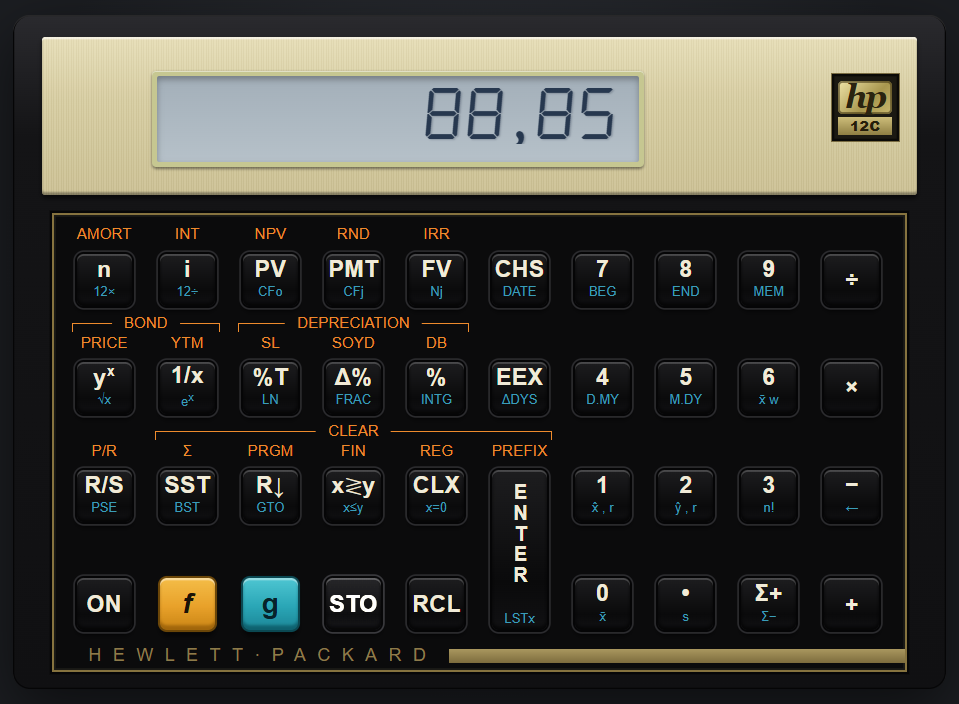
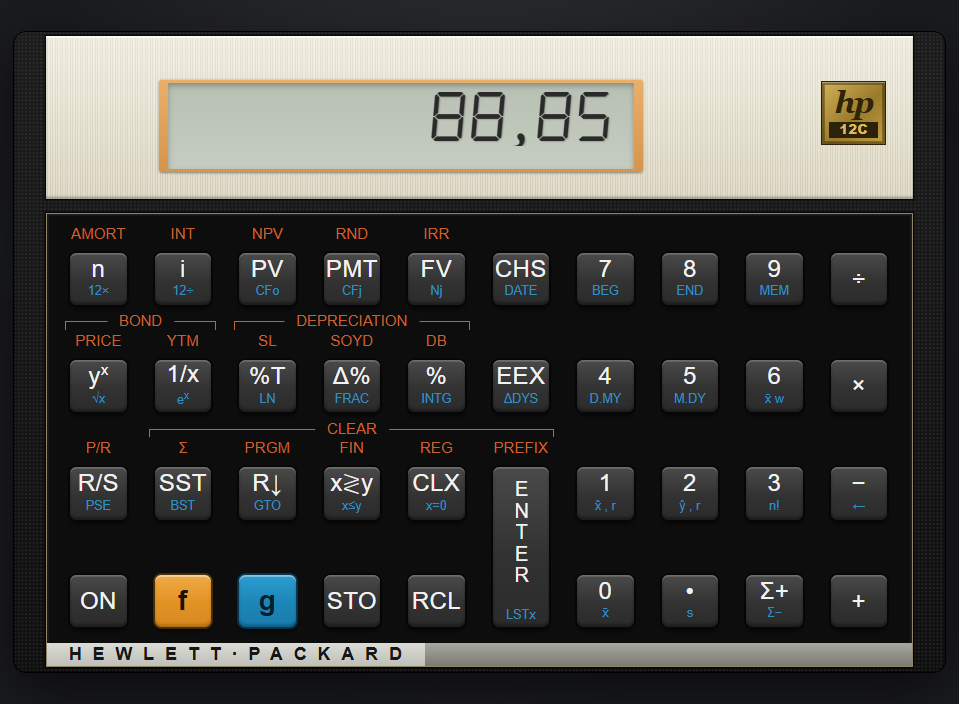
Atualização

diff --git a/src/style.css b/src/style.css
@@ -2,63 +2,63 @@
 @font-face{font-family:"DSEG7";src:url("fonts/DSEG7Classic-Italic.woff2") format("woff2");font-display:block}
 *,*::before,*::after{box-sizing:border-box}
 html,body{height:100%;margin:0}
-body{background:radial-gradient(ellipse at 50% 35%,#2f3238 0%,#1b1d21 70%);color:#d9d4c0;font-family:"Segoe UI",system-ui,sans-serif;overflow:hidden;user-select:none;-webkit-user-select:none}
+body{background:radial-gradient(ellipse at 50% 35%,#34363b 0%,#1a1b1e 72%);color:#d9d4c0;font-family:"Segoe UI",system-ui,sans-serif;overflow:hidden;user-select:none;-webkit-user-select:none}
 .hidden{display:none !important}
 #stage{height:100%;display:flex;flex-direction:column;align-items:center;justify-content:center;padding:10px;gap:8px}
 
-.calc12{flex:none;position:relative;width:640px;container-type:inline-size;background:linear-gradient(#2a2a2e,#141416 18%,#101012);border-radius:1.8cqw;box-shadow:0 16px 48px rgba(0,0,0,.55),inset 0 1px 0 rgba(255,255,255,.14),inset 0 0 0 1px #050506;font-family:"Helvetica Neue",Helvetica,Arial,sans-serif;outline:none;overflow:hidden;padding-top:2.2cqw}
-.c12-case{padding:0 3.1cqw 1.8cqw}
+.calc12{flex:none;position:relative;width:640px;container-type:inline-size;background:radial-gradient(rgba(255,255,255,.08) .6px,transparent .9px) 0 0/3px 3px,linear-gradient(#1c1c1c,#0f0f0f);border-radius:1.3cqw;box-shadow:0 14px 44px rgba(0,0,0,.6),inset 0 0 0 .15cqw #000,inset 0 .2cqw 0 rgba(255,255,255,.1);font-family:"Helvetica Neue",Helvetica,Arial,sans-serif;outline:none;overflow:hidden;padding-top:.5cqw}
+.c12-case{padding:0 3.6cqw .6cqw}
 
-/* placa dourada + visor */
-.c12-face{position:relative;height:17cqw;background:repeating-linear-gradient(90deg,rgba(255,255,255,.07) 0 1px,rgba(0,0,0,.025) 1px 2px),linear-gradient(#e6ddb6,#d6cca0 40%,#cbc092 100%);box-shadow:inset 0 .25cqw 0 rgba(255,255,255,.55),inset 0 -.3cqw .2cqw rgba(0,0,0,.35),0 .3cqw .5cqw rgba(0,0,0,.6);border-radius:.3cqw}
-.c12-lcdframe{position:absolute;left:11.8cqw;top:3.7cqw;width:52.7cqw;height:10.3cqw;background:#c6c791;padding:.55cqw;border-radius:.45cqw;box-shadow:0 .15cqw .3cqw rgba(0,0,0,.45),inset 0 .1cqw 0 rgba(255,255,255,.5)}
-.c12-lcd{position:relative;height:100%;background:linear-gradient(#a3afb9,#b6c1c9);border-radius:.25cqw;box-shadow:inset 0 .35cqw .7cqw rgba(0,0,0,.3);color:#27384f;overflow:hidden}
-.c12-disp{word-spacing:1.3cqw;position:absolute;left:1cqw;right:2.2cqw;top:.7cqw;font-family:"DSEG7",ui-monospace,Consolas,monospace;font-size:5.5cqw;line-height:1.2;text-align:right;white-space:pre;overflow:hidden;text-shadow:.15cqw .15cqw .2cqw rgba(30,45,65,.25)}
-.c12-disp.txt{font-size:4.4cqw}
+/* placa champanhe + visor com moldura laranja */
+.c12-face{position:relative;height:17.5cqw;background:repeating-linear-gradient(90deg,rgba(255,255,255,.12) 0 1px,rgba(0,0,0,.03) 1px 2px),linear-gradient(#efebde,#e4dfcc 55%,#d8d2bc);box-shadow:inset 0 .2cqw 0 rgba(255,255,255,.75),inset 0 -.25cqw .2cqw rgba(0,0,0,.25),0 0 0 .15cqw #070707}
+.c12-lcdframe{position:absolute;left:12.1cqw;top:4.6cqw;width:51.8cqw;height:10cqw;background:linear-gradient(#e9b06a,#d6944c);padding:.4cqw .95cqw;border-radius:.3cqw;box-shadow:0 .1cqw .25cqw rgba(0,0,0,.4),inset 0 .1cqw 0 rgba(255,255,255,.4)}
+.c12-lcd{position:relative;height:100%;background:linear-gradient(#b8c0b4,#c5ccc0);border-radius:.15cqw;box-shadow:inset 0 .3cqw .6cqw rgba(0,0,0,.28);color:#2a2a2a;overflow:hidden}
+.c12-disp{word-spacing:1.3cqw;position:absolute;left:1cqw;right:2.2cqw;top:.55cqw;font-family:"DSEG7",ui-monospace,Consolas,monospace;font-size:5.2cqw;line-height:1.2;text-align:right;white-space:pre;overflow:hidden;text-shadow:.12cqw .12cqw .15cqw rgba(0,0,0,.18)}
+.c12-disp.txt{font-size:4.2cqw}
 .c12-lcd.off .c12-disp,.c12-lcd.off .c12-ann{visibility:hidden}
-.c12-ann{position:absolute;left:0;right:0;bottom:.5cqw;height:2cqw;font-size:max(7px,1.5cqw);font-weight:600;letter-spacing:.02em;color:#2d3f57}
+.c12-ann{position:absolute;left:0;right:0;bottom:.4cqw;height:2cqw;font-size:max(7px,1.45cqw);font-weight:600;letter-spacing:.02em;color:#2a2a2a}
 .c12-ann span{position:absolute;bottom:0;opacity:0;white-space:nowrap}
-.c12-ann span.on{opacity:.85}
+.c12-ann span.on{opacity:.8}
 #aUser{left:5%}#aF{left:23%}#aG{left:30%}#aBeg{left:39%}#aDmy{left:65%}#aC{left:78%}#aPrgm{left:86%}
 
-/* logotipo */
-.c12-logo{position:absolute;right:1.9cqw;top:3.9cqw;width:7.4cqw;height:7.4cqw;background:#1b1912;border:.2cqw solid #7a6c42;box-shadow:inset 0 0 0 .25cqw #0b0a07;padding:.7cqw;display:flex;flex-direction:column;gap:.35cqw}
-.c12-logo .hp{flex:1;display:grid;place-items:center;border-radius:.5cqw;background:linear-gradient(135deg,#efe4a8,#a8964e 60%,#c9b970);color:#2b2410;font:italic 900 3.5cqw/1 Georgia,"Times New Roman",serif;letter-spacing:-.05em;box-shadow:inset 0 0 0 .2cqw rgba(60,48,15,.6)}
-.c12-logo .mod{height:1.9cqw;display:grid;place-items:center;background:linear-gradient(#cdbd7a,#8f7f43);color:#251e0b;font:900 1.5cqw/1 "Arial Black",Arial,sans-serif;letter-spacing:.02em}
+/* logotipo dourado */
+.c12-logo{position:absolute;right:2.9cqw;top:4.8cqw;width:6.9cqw;height:6.9cqw;background:linear-gradient(135deg,#d3b25a,#9a7a2a 55%,#c39f45);border:.15cqw solid #2e230a;box-shadow:inset 0 .12cqw 0 rgba(255,255,255,.35),inset 0 0 0 .3cqw rgba(60,45,10,.55);padding:.7cqw;display:flex;flex-direction:column;gap:.3cqw}
+.c12-logo .hp{flex:1;display:grid;place-items:center;color:#2f2408;font:italic 900 3.3cqw/1 Georgia,"Times New Roman",serif;letter-spacing:-.05em}
+.c12-logo .mod{height:1.8cqw;display:grid;place-items:center;background:#2b2209;color:#d9b85a;font:900 1.4cqw/1 "Arial Black",Arial,sans-serif;letter-spacing:.02em}
 
 /* painel de teclas */
-.c12-panel{position:relative;margin:1.9cqw 1.1cqw 0;background:#0b0b0c;border:.22cqw solid #86733f;box-shadow:inset 0 0 0 .2cqw #1b1a16,0 0 0 .25cqw #060607;padding:.9cqw 2.4cqw .5cqw 2.1cqw}
+.c12-panel{position:relative;margin:1.5cqw 0 0;background:#0d0d0d;border:.2cqw solid #8f8668;box-shadow:inset 0 0 0 .2cqw #1b1b1b,0 0 0 .15cqw #050505;padding:.9cqw 2.3cqw 0 2.1cqw;overflow:hidden}
 .c12-keys{display:grid;grid-template-columns:repeat(10,minmax(0,1fr));grid-template-rows:auto 2.2cqw auto 2.2cqw auto 2.2cqw auto;column-gap:2.3cqw}
 .c12-c{display:flex;flex-direction:column;min-width:0}
-.c12-c .lf{font-size:max(6.5px,1.62cqw);font-weight:500;color:#ee8b2d;text-align:center;line-height:1.5;white-space:nowrap;letter-spacing:.01em;min-height:1.5em;margin-bottom:.5cqw}
-.c12-br{position:relative;align-self:end;height:.95cqw;margin:0 -.2cqw;border:.16cqw solid #ee8b2d;border-bottom:0}
-.c12-br span{position:absolute;top:-.8em;left:50%;transform:translateX(-50%);background:#0b0b0c;padding:0 .8em;font-size:max(6.5px,1.62cqw);font-weight:500;color:#ee8b2d;line-height:1.5;white-space:nowrap}
+.c12-c .lf{font-size:max(6.5px,1.6cqw);font-weight:500;color:#c8602f;text-align:center;line-height:1.5;white-space:nowrap;letter-spacing:.01em;min-height:1.5em;margin-bottom:.5cqw}
+.c12-br{position:relative;align-self:end;height:.95cqw;margin:0 -.2cqw;border:.14cqw solid #c8602f;border-bottom:0}
+.c12-br span{position:absolute;top:-.8em;left:50%;transform:translateX(-50%);background:#0d0d0d;padding:0 .8em;font-size:max(6.5px,1.6cqw);font-weight:500;color:#c8602f;line-height:1.5;white-space:nowrap}
 
-/* teclas */
-.c12-k{position:relative;flex:1;display:flex;flex-direction:column;align-items:center;justify-content:center;border:0;padding:0;min-height:max(23px,5.6cqw);border-radius:max(3px,.75cqw);cursor:pointer;color:#f1ebd8;min-width:0;font-family:inherit;
-  background:linear-gradient(#1d1d1f,#0a0a0b 70%,#111113);
-  box-shadow:0 0 0 .22cqw #050506,0 0 0 .4cqw #2b2b2e,inset 0 .2cqw 0 rgba(255,255,255,.2),inset 0 -.35cqw .4cqw rgba(0,0,0,.7),0 .55cqw .6cqw rgba(0,0,0,.6);margin:.3cqw .35cqw .55cqw;touch-action:manipulation}
-.c12-k:hover{filter:brightness(1.35)}
-.c12-k:active,.c12-k.down{transform:translateY(.25cqw);box-shadow:0 0 0 .22cqw #050506,0 0 0 .4cqw #2b2b2e,inset 0 .2cqw .5cqw rgba(0,0,0,.8)}
+/* teclas: cinza-grafite fosco */
+.c12-k{position:relative;flex:1;display:flex;flex-direction:column;align-items:center;justify-content:center;border:0;padding:0;min-height:max(23px,5.6cqw);border-radius:max(3px,.7cqw);cursor:pointer;color:#f2f2f2;min-width:0;font-family:inherit;
+  background:linear-gradient(#4a4a4a,#323232 55%,#2b2b2b);
+  box-shadow:0 0 0 .2cqw #060606,inset 0 .18cqw 0 rgba(255,255,255,.2),inset 0 -.3cqw .3cqw rgba(0,0,0,.35),0 .4cqw .45cqw rgba(0,0,0,.6);margin:.3cqw .35cqw .5cqw;touch-action:manipulation}
+.c12-k:hover{filter:brightness(1.18)}
+.c12-k:active,.c12-k.down{transform:translateY(.25cqw);box-shadow:0 0 0 .2cqw #060606,inset 0 .2cqw .5cqw rgba(0,0,0,.6)}
 .c12-k:focus{outline:none}
 .c12-k:focus-visible{outline:2px solid #fff;outline-offset:2px}
-.c12-k .lm{display:block;font-size:max(11px,2.5cqw);font-weight:600;line-height:1.1;letter-spacing:.01em;margin-top:.1cqw}
+.c12-k .lm{display:block;font-size:max(11px,2.6cqw);font-weight:500;line-height:1.1;letter-spacing:.01em;margin-top:.1cqw}
 .c12-k .lm sup{font-size:.62em;line-height:0}
-.c12-k .lg{display:block;font-size:max(6.5px,1.4cqw);font-weight:500;color:#3a9db8;line-height:1.5;white-space:nowrap;min-height:1.5em;margin-bottom:.2cqw}
-.c12-k.kf{background:linear-gradient(#f4bd48,#e8a12a 55%,#c98414);color:#1b1306;box-shadow:0 0 0 .22cqw #6b4608,inset 0 .25cqw 0 rgba(255,255,255,.45),inset 0 -.5cqw .3cqw rgba(120,70,0,.5),0 .6cqw .6cqw rgba(0,0,0,.6)}
-.c12-k.kf .lm{font-size:max(13px,3cqw);font-style:italic;font-weight:700}
-.c12-k.kg{background:linear-gradient(#4ec6d2,#2aa6b6 55%,#1b8596);color:#06232a;box-shadow:0 0 0 .22cqw #0b4852,inset 0 .25cqw 0 rgba(255,255,255,.4),inset 0 -.5cqw .3cqw rgba(0,60,70,.5),0 .6cqw .6cqw rgba(0,0,0,.6)}
-.c12-k.kg .lm{font-size:max(13px,3cqw);font-weight:700}
-.c12-k.kent .lm{writing-mode:vertical-rl;text-orientation:upright;letter-spacing:-.06em;font-size:max(9px,2.1cqw);margin:auto 0}
+.c12-k .lg{display:block;font-size:max(6.5px,1.35cqw);font-weight:500;color:#2e8fc0;line-height:1.5;white-space:nowrap;min-height:1.5em;margin-bottom:.2cqw}
+.c12-k.kf{background:linear-gradient(#f0aa47,#e29225 55%,#d58a20);color:#1a1206;box-shadow:0 0 0 .2cqw #4d3105,inset 0 .2cqw 0 rgba(255,255,255,.45),inset 0 -.3cqw .3cqw rgba(120,70,0,.4),0 .4cqw .45cqw rgba(0,0,0,.6)}
+.c12-k.kf .lm{font-size:max(13px,3cqw);font-weight:600}
+.c12-k.kg{background:linear-gradient(#2c9dd2,#1c85b6 55%,#1a7dac);color:#04202e;box-shadow:0 0 0 .2cqw #06384f,inset 0 .2cqw 0 rgba(255,255,255,.4),inset 0 -.3cqw .3cqw rgba(0,50,80,.4),0 .4cqw .45cqw rgba(0,0,0,.6)}
+.c12-k.kg .lm{font-size:max(13px,3cqw);font-weight:600}
+.c12-k.kent .lm{writing-mode:vertical-rl;text-orientation:upright;letter-spacing:-.02em;font-size:max(9px,2.1cqw);margin:auto 0}
 .c12-k.kent .lg{margin-top:auto}
-.c12-k.kf:hover,.c12-k.kg:hover{filter:brightness(1.1)}
+.c12-k.kf:hover,.c12-k.kg:hover{filter:brightness(1.08)}
 .c12-k[data-sc]::after{content:attr(data-sc);position:absolute;top:.15cqw;left:.45cqw;font-size:max(6px,1.15cqw);font-weight:700;color:#ffd77a;opacity:0;text-transform:uppercase}
 .hints .c12-k[data-sc]::after{opacity:.9}
 
-/* faixa HEWLETT·PACKARD */
-.c12-brand{display:flex;align-items:center;gap:1.2cqw;margin:1.2cqw -2.4cqw 0 0;height:2cqw}
-.c12-brand b{font-weight:500;font-size:max(7px,1.95cqw);letter-spacing:.62em;color:#8d7b4a;white-space:nowrap;padding-left:1.6cqw}
-.c12-brand i{flex:1;height:1.45cqw;background:linear-gradient(#a9975f,#7d6c3d)}
+/* faixa prateada HEWLETT·PACKARD */
+.c12-brand{display:flex;align-items:stretch;margin:1.2cqw -2.3cqw 0 -2.1cqw;height:2.5cqw;background:linear-gradient(#dcdcd6,#bfbfb9)}
+.c12-brand b{display:flex;align-items:center;font-weight:600;font-size:max(7px,1.9cqw);letter-spacing:.62em;color:#161616;white-space:nowrap;padding-left:2.3cqw}
+.c12-brand i{flex:1;margin-left:1.3cqw;background:linear-gradient(#a8a8a3,#7a7a75)}
 
 /* painel opcional de pilha/registradores */
 .regs{flex:none;width:100%;max-width:900px;background:#15161a;border:1px solid #2c2e35;border-radius:8px;padding:8px 12px;font-size:12px;color:#aeb0b8;font-variant-numeric:tabular-nums;display:grid;grid-template-columns:repeat(auto-fit,minmax(130px,1fr));gap:2px 14px}

diff --git a/scripts/make-icon.js b/scripts/make-icon.js
@@ -17,19 +17,19 @@ function svg() {
   }
   return `<svg xmlns="http://www.w3.org/2000/svg" width="512" height="512" viewBox="0 0 512 512">
   <defs>
-    <linearGradient id="gold" x1="0" y1="0" x2="0" y2="1"><stop offset="0" stop-color="#eee6bd"/><stop offset=".5" stop-color="#d6cca0"/><stop offset="1" stop-color="#c2b788"/></linearGradient>
-    <linearGradient id="lcd" x1="0" y1="0" x2="0" y2="1"><stop offset="0" stop-color="#a3afb9"/><stop offset="1" stop-color="#bac5cc"/></linearGradient>
+    <linearGradient id="gold" x1="0" y1="0" x2="0" y2="1"><stop offset="0" stop-color="#efebde"/><stop offset=".5" stop-color="#e4dfcc"/><stop offset="1" stop-color="#d8d2bc"/></linearGradient>
+    <linearGradient id="lcd" x1="0" y1="0" x2="0" y2="1"><stop offset="0" stop-color="#b8c0b4"/><stop offset="1" stop-color="#c5ccc0"/></linearGradient>
     <linearGradient id="body" x1="0" y1="0" x2="0" y2="1"><stop offset="0" stop-color="#34343a"/><stop offset="1" stop-color="#121214"/></linearGradient>
   </defs>
   <rect x="16" y="64" width="480" height="384" rx="40" fill="url(#body)" stroke="#000" stroke-width="4"/>
   <rect x="40" y="86" width="432" height="112" rx="10" fill="url(#gold)"/>
-  <rect x="72" y="104" width="250" height="74" rx="8" fill="#c6c791"/>
+  <rect x="72" y="104" width="250" height="74" rx="8" fill="#dc9a52"/>
   <rect x="78" y="110" width="238" height="62" rx="5" fill="url(#lcd)"/>
-  <text x="304" y="162" text-anchor="end" font-family="Consolas, monospace" font-weight="700" font-size="52" font-style="italic" fill="#27384f">12,00</text>
+  <text x="304" y="162" text-anchor="end" font-family="Consolas, monospace" font-weight="700" font-size="52" font-style="italic" fill="#2a2a2a">12,00</text>
   <rect x="396" y="108" width="56" height="64" rx="6" fill="#1b1912" stroke="#7a6c42" stroke-width="3"/>
   <rect x="402" y="114" width="44" height="34" rx="5" fill="#cdbd7a"/>
   <text x="424" y="140" text-anchor="middle" font-family="Georgia, serif" font-weight="900" font-style="italic" font-size="26" fill="#2b2410">hp</text>
-  <rect x="58" y="214" width="396" height="214" rx="12" fill="#0b0b0c" stroke="#86733f" stroke-width="3"/>
+  <rect x="58" y="214" width="396" height="214" rx="12" fill="#0d0d0d" stroke="#8f8668" stroke-width="3"/>
   ${keys.join('\n  ')}
   <rect x="396" y="232" width="52" height="172" rx="8" fill="#2b2b2f" stroke="#050506" stroke-width="3"/>
   <rect x="400" y="236" width="44" height="6" rx="3" fill="#ffffff" opacity=".13"/>

diff --git a/scripts/after-pack.js b/scripts/after-pack.js
@@ -1,0 +1,9 @@
+'use strict';
+// Remove o "CompanyName" padrão do Electron ("GitHub, Inc.") do executável principal.
+const path = require('path');
+const { rcedit } = require('rcedit');
+module.exports = async function afterPack(context) {
+  if (context.electronPlatformName !== 'win32') return;
+  const exe = path.join(context.appOutDir, context.packager.appInfo.productFilename + '.exe');
+  await rcedit(exe, { 'version-string': { CompanyName: ' ' } });
+};
